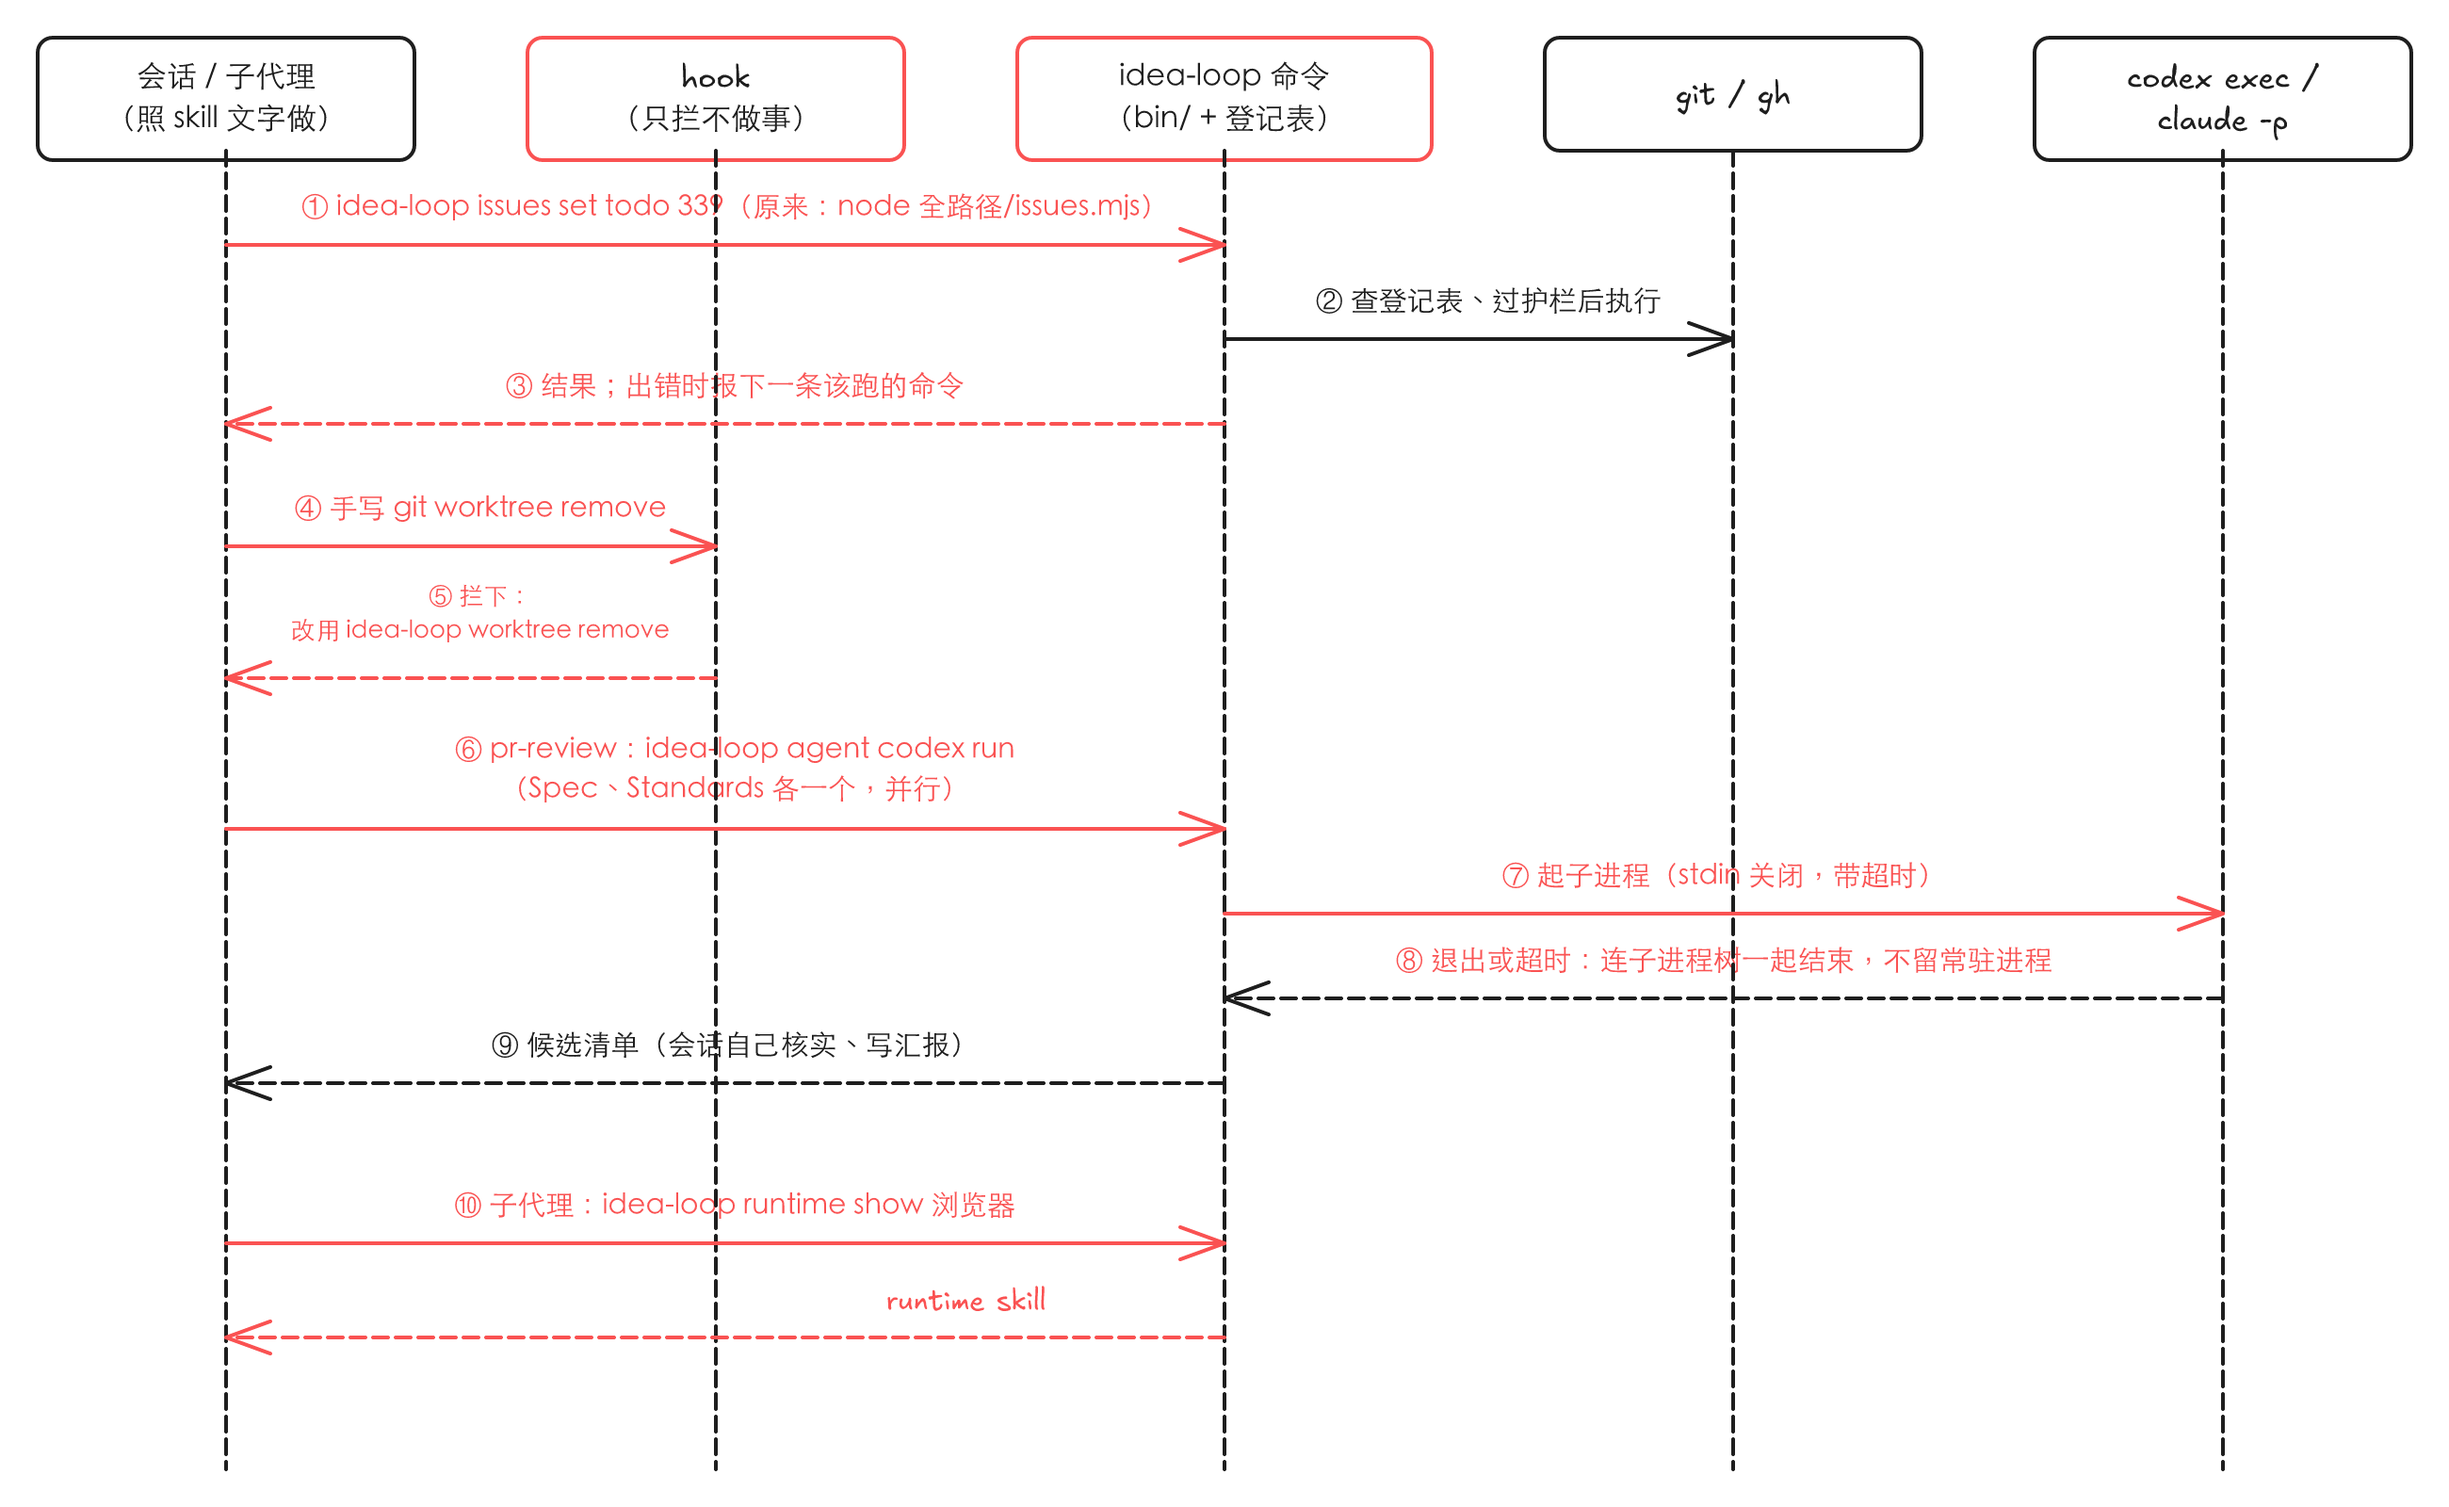
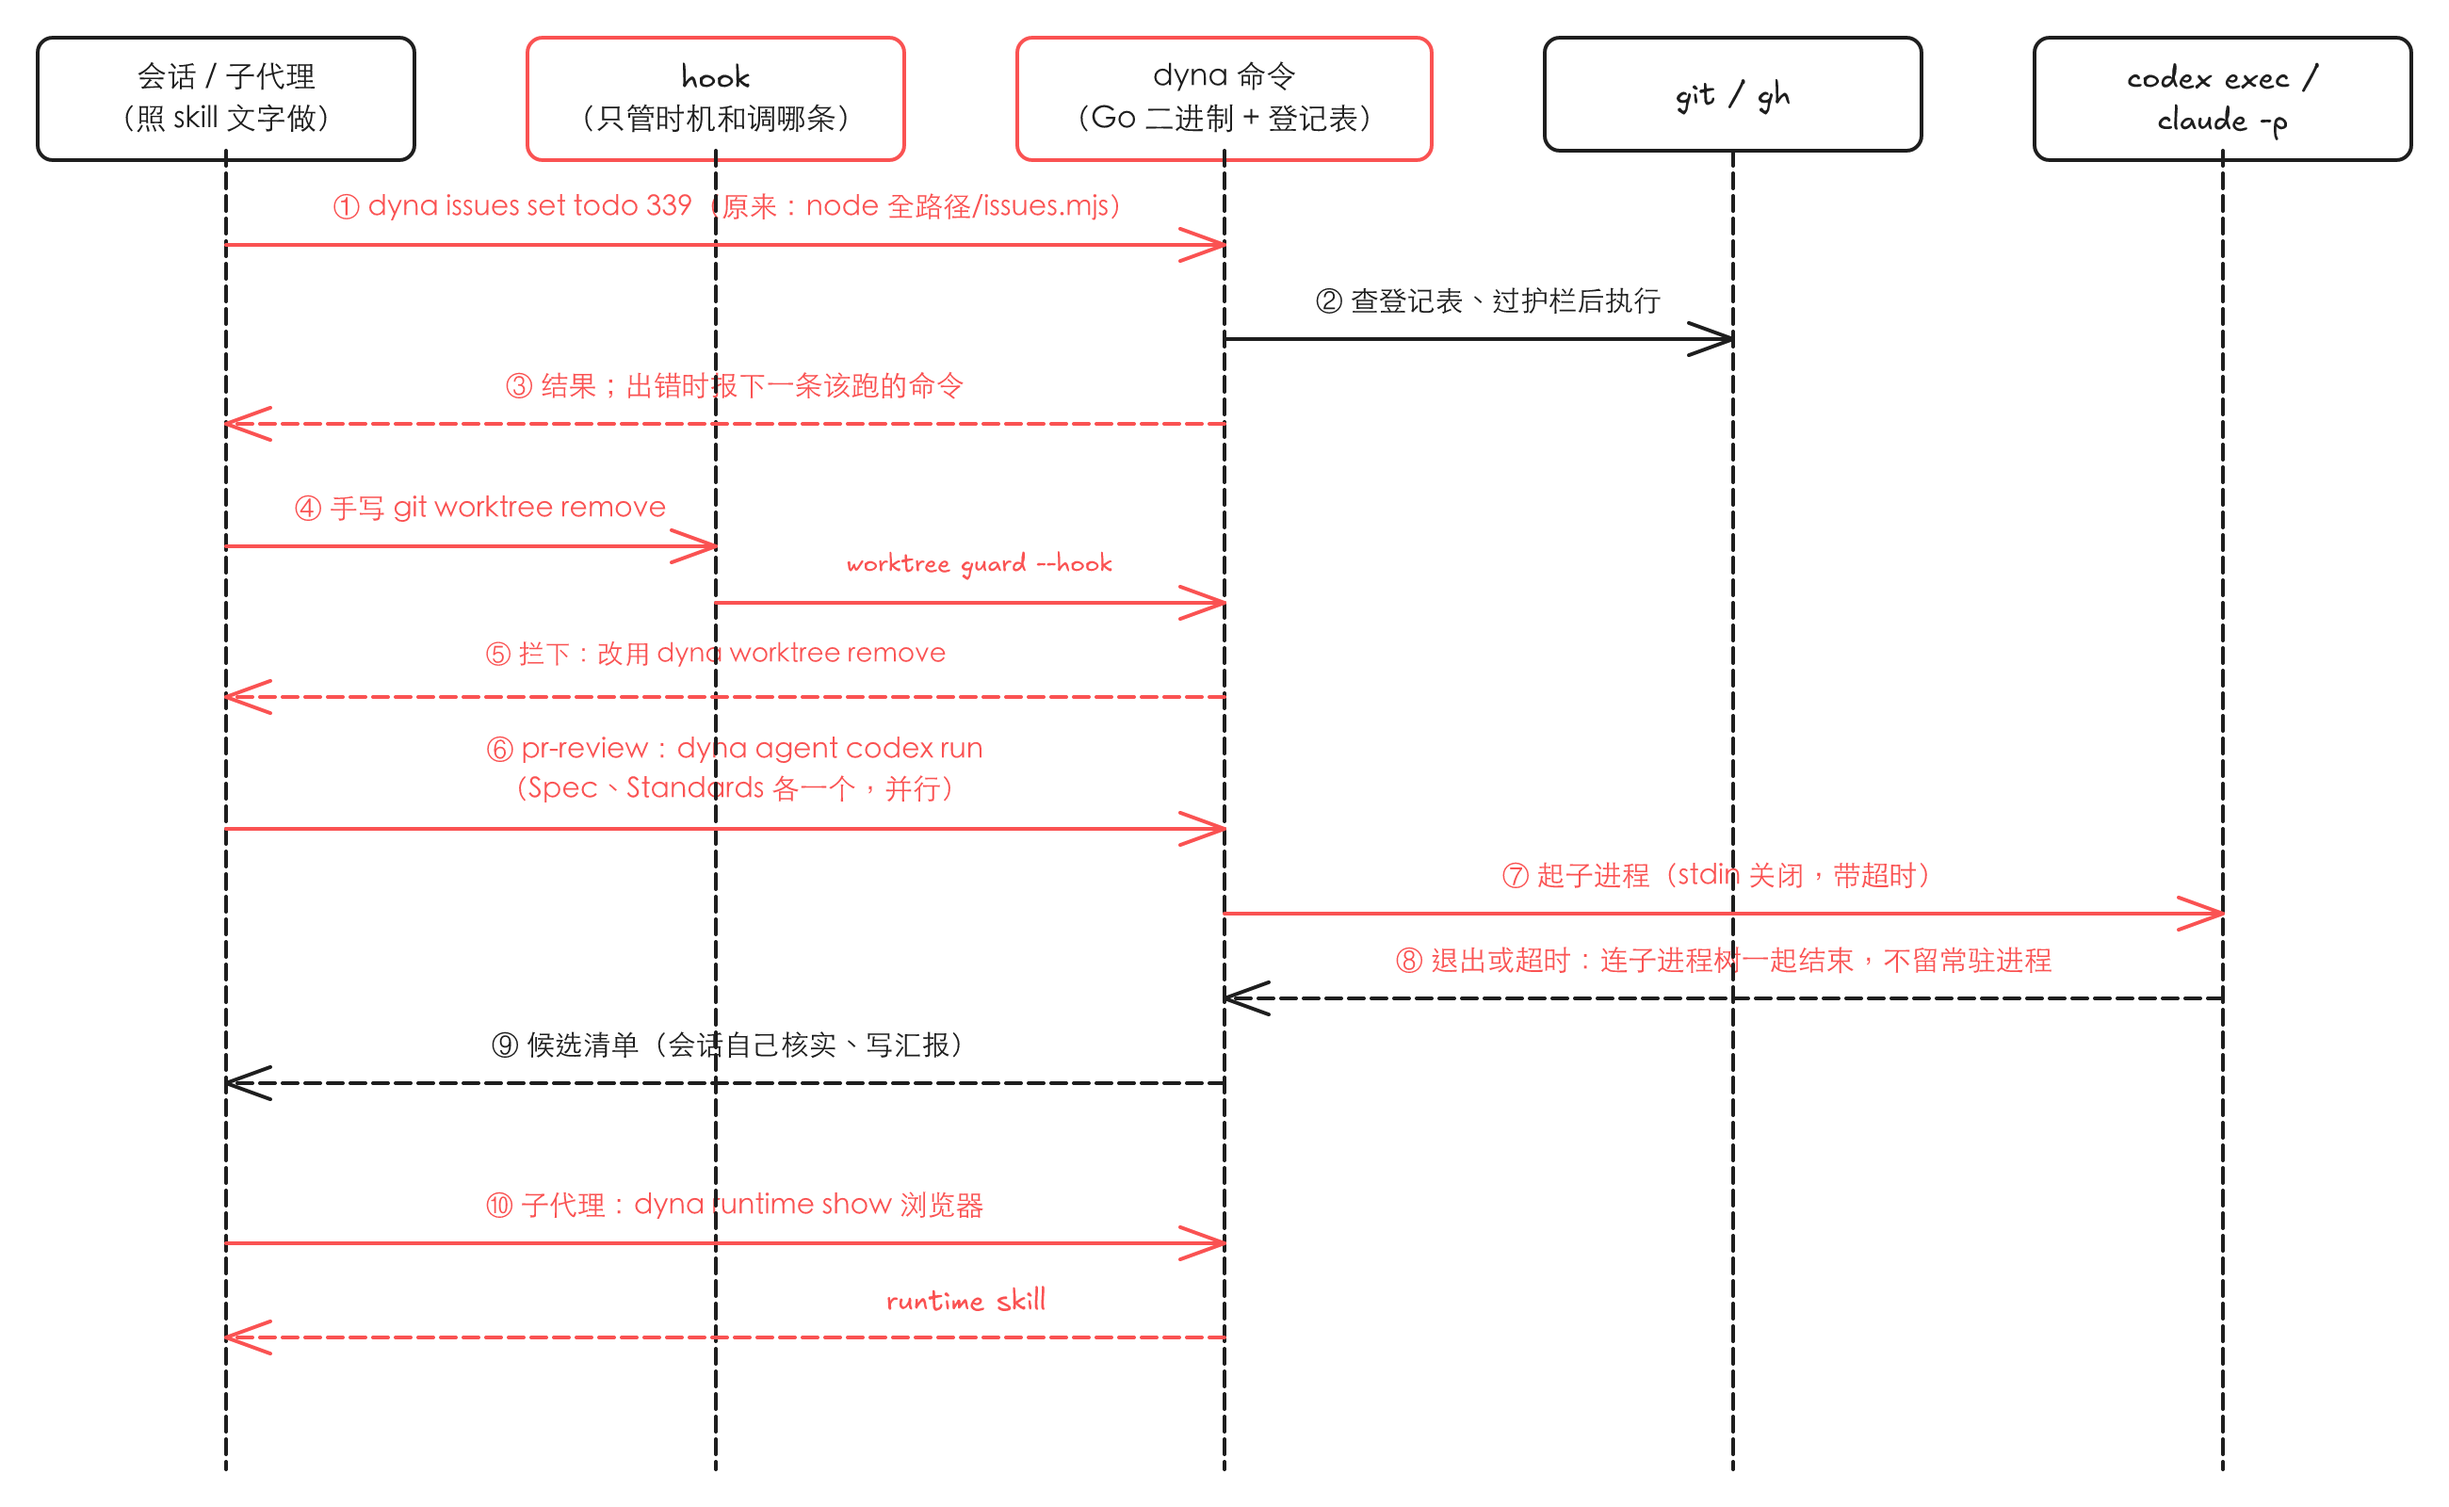
docs(spec): idea-loop-cli 命令行命名为 dyna

diff --git a/docs/raw/decisions/339.md b/docs/raw/decisions/339.md
@@ -44,3 +44,6 @@ Harold 2026-11-18 在 0.2.0 父会话里定的命令行方案，triage 会话照
 - 去向（最新）：进命令 49（会话调 41、只由 hook 调 6、test 2），命令行内部模块 5，设计档案 MCP package 1，删 2（codex-companion、mini-yaml）。
 - 原话：「其实我觉得用go/rust 出二进制是不是比直接node调用会好，我是希望直接用idea-loop xxx会好一些。poteto的noodle是怎么实现的」→ 查 noodle：Go 写，goreleaser 出 6 个平台的包，Mac brew、Linux 从 Releases 下载；skill 从 main 拷、二进制按发布装，v0.1.5（2026-03-03）之后 skill 又改过两次、没有版本对齐检查。
 - 原话：「我倾向于分开，二进制是二进制，skill是skill。就像你说的这里有个问题就是cli某个行为变化，skill的升级可能需要伴随cli最低版本的升级，这个要怎么维护」；选题：代码放「harold-skills 里一个目录 (Recommended)」，语言「Go (Recommended)」→ 推翻父会话的「不照搬二进制分发」。定：Go 二进制本机 goreleaser 发到 GitHub Releases、setup 装进 `~/.idea-loop/bin/`；插件 `bin/idea-loop` 是 sh 小脚本，带插件的版本范围转给二进制，不在范围就不执行并说下一步；命令行同一大版本只加不删；每版存登记表，skill 扫描测试拿最低版本那份对，最低版本未发布就红。设计档案 MCP 改为命令行里的 Go 包，`idea-loop mcp design-archive` 起；npm / `yaml` 那条随之作废。
+- 通读找到并修掉的（2026-11-19，Harold：「MCP 就按你说的改成 Go 包吧，然后看有没有什么问题」）：第一次装要不依赖命令行本身（小脚本自带 `self install/upgrade`）；`~/.idea-loop/bin` 不进 PATH（否则绕过版本核对）；runtime 数据、Codex prompt 模板、注入正文留在插件、二进制只读；发版由人批；本机 Go 1.20.7、没装 goreleaser，写进 DEVELOPMENT.md。
+- 选题：代码「按模块分包 (Recommended)」，框架「cobra (Recommended)」。
+- 命令名原话：「poteto、noodle都是土豆姐都是以食物命名，我在想我们也可以随意点表现个性化」「倒不是说一定是食物，我觉的可以这样，因为我很喜欢奥特曼（特摄迷），你可以叫tiga或者dyna，dyna会好一些hhh」→ 命令叫 `dyna`，代码目录 `dyna/`，标签 `dyna-v*`，二进制 `~/.idea-loop/bin/dyna`；插件仍叫 idea-loop。本机、Homebrew 都没有同名（2026-11-19 查）。
